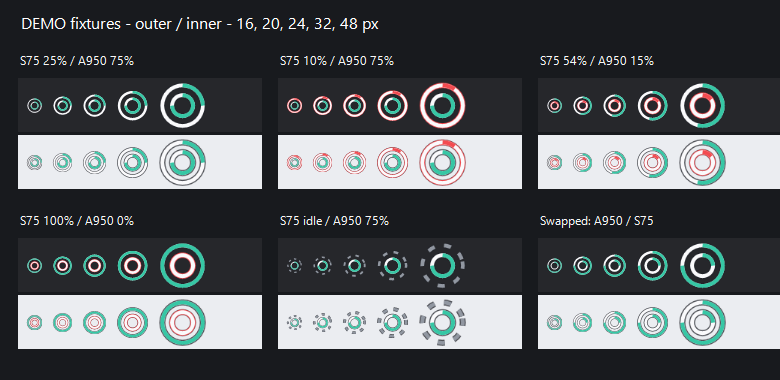
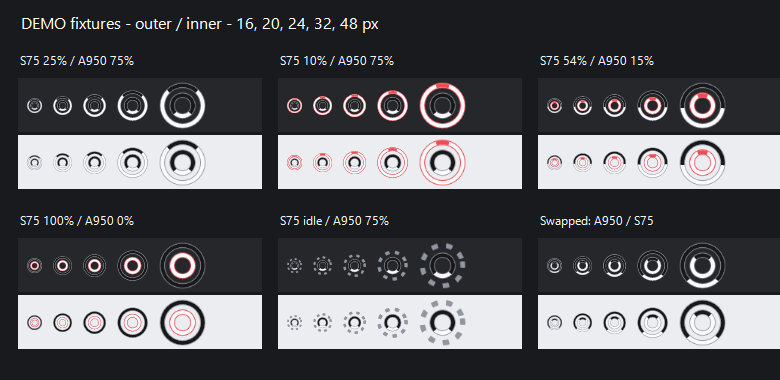
Add tray palettes with monochrome default and bottom-centered consumed arcs

diff --git a/tests/PeripheralBattery.IconTests/Program.cs b/tests/PeripheralBattery.IconTests/Program.cs
@@ -18,6 +18,12 @@ Check(swapped.Outer.Percent == 75 && swapped.Inner.Percent == 25, "swapped outer
 Check(JsonSerializer.Deserialize<AppSettings>("{}", Json.Options)!.KeyboardOuterRing, "old settings preserve default keyboard outer");
 Check(!JsonSerializer.Deserialize<AppSettings>(JsonSerializer.Serialize(settings, Json.Options), Json.Options)!.KeyboardOuterRing,
     "ring order survives settings serialization");
+Check(JsonSerializer.Deserialize<AppSettings>("{}", Json.Options)!.ColorTheme == TrayColorTheme.Monochrome,
+    "old settings default to monochrome");
+var paletteSettings = new AppSettings { ColorTheme = TrayColorTheme.Purple };
+Check(JsonSerializer.Deserialize<AppSettings>(JsonSerializer.Serialize(paletteSettings, Json.Options), Json.Options)!.ColorTheme == TrayColorTheme.Purple,
+    "palette survives settings serialization");
+Check(BatteryRings.From(mouse, keyboard, paletteSettings) != normal, "palette changes invalidate the rendered icon cache");
 Check(BatteryRing.From(Value("A950", 20), 20).Low, "threshold boundary is low");
 Check(!BatteryRing.From(Value("A950", 21), 20).Low, "above threshold is normal");
 Check(BatteryRing.From(Value("A950", 30), 40).Low, "custom threshold is used");
@@ -33,17 +39,35 @@ Color At(Bitmap image, double radius, double degrees)
 }
 using (var image = BatteryTrayRenderer.Draw(normal))
 {
-    Check(Near(At(image, 27, 45), BatteryTrayRenderer.Normal), "outer remaining quarter is colored");
+    Check(Near(At(image, 27, 0), BatteryTrayRenderer.Normal), "outer remaining quarter is centered at top");
     Check(Near(At(image, 27, 135), BatteryTrayRenderer.Consumed), "outer consumed arc is white");
-    Check(Near(At(image, 14, 225), BatteryTrayRenderer.Normal), "inner three-quarter progress is independent");
-    Check(Near(At(image, 14, 315), BatteryTrayRenderer.Consumed), "inner consumed arc is white");
+    Check(Near(At(image, 14, 90), BatteryTrayRenderer.Normal), "inner three-quarter progress is independent");
+    Check(Near(At(image, 14, 180), BatteryTrayRenderer.Consumed), "inner consumed arc is centered at bottom");
     Check(image.GetPixel(32, 32).A == 0 && image.GetPixel(32, 11).A == 0, "center and gap stay transparent");
 }
 using (var image = BatteryTrayRenderer.Draw(new(new(10, true), new(100, false))))
 {
-    Check(Near(At(image, 27, 15), BatteryTrayRenderer.Low), "low outer arc is red");
+    Check(Near(At(image, 27, 0), BatteryTrayRenderer.Low), "low outer arc is red");
     Check(Near(At(image, 27, 180), BatteryTrayRenderer.Consumed), "low consumed arc stays white");
     Check(Near(At(image, 14, 180), BatteryTrayRenderer.Normal), "one low battery does not turn the other ring red");
+}
+foreach (var theme in Enum.GetValues<TrayColorTheme>())
+{
+    using var image = BatteryTrayRenderer.Draw(new(new(50, false), new(25, true), theme));
+    foreach (double angle in new[] { 45d, 315d })
+        Check(Near(At(image, 27, angle), BatteryTrayRenderer.NormalColor(theme)), "normal half stays on both upper quadrants for every palette");
+    foreach (double angle in new[] { 135d, 225d })
+        Check(Near(At(image, 27, angle), BatteryTrayRenderer.Consumed), "white half stays on both lower quadrants for every palette");
+    Check(Near(At(image, 14, 0), BatteryTrayRenderer.Low), "red overrides every selected palette for a low device");
+}
+foreach (int percent in new[] { 10, 25, 50, 75, 90 })
+{
+    using var image = BatteryTrayRenderer.Draw(new(new(percent, false), new(percent, false)));
+    foreach (int radius in new[] { 14, 27 })
+    {
+        Check(Near(At(image, radius, 0), BatteryTrayRenderer.Normal), "remaining arc stays centered at top as the level changes");
+        Check(Near(At(image, radius, 180), BatteryTrayRenderer.Consumed), "consumed arc stays centered at bottom as the level changes");
+    }
 }
 using (var image = BatteryTrayRenderer.Draw(new(new(0, true), new(100, false))))
 {
@@ -107,6 +131,8 @@ var settingsThread = new Thread(() =>
         using var form = new SettingsForm(settings, [], _ => throw new Exception("preview must not save user settings"));
         var order = (ComboBox)form.Controls.Find("RingOrder", true).Single();
         Check(order.SelectedIndex == 1 && order.Items.Count == 2, "settings UI reflects swapped device order");
+        var colors = (ComboBox)form.Controls.Find("TrayColors", true).Single();
+        Check(colors.SelectedIndex == 0 && colors.Items.Count == 6, "settings UI exposes six palettes with monochrome default");
         // Render offscreen. Do not Show(), run the app, or change the installed tray.
         // A never-shown Form omits invisible children in DrawToBitmap. Render its
         // detached layout instead, with the same font and client dimensions.
@@ -116,6 +142,7 @@ var settingsThread = new Thread(() =>
         foreach (Control control in layout.Controls) control.CreateControl();
         layout.PerformLayout();
         Check(layout.ClientRectangle.Contains(order.Bounds), "device order selector fits in the settings layout");
+        Check(layout.ClientRectangle.Contains(colors.Bounds), "palette selector fits in the settings layout");
         Check(layout.ClientRectangle.Contains(((Control)form.AcceptButton!).Bounds), "save button fits in the settings layout");
         using var image = new Bitmap(layout.Width, layout.Height);
         layout.DrawToBitmap(image, layout.ClientRectangle);

diff --git a/src/PeripheralBattery.App/BatteryTrayRenderer.cs b/src/PeripheralBattery.App/BatteryTrayRenderer.cs
@@ -11,22 +11,31 @@ internal readonly record struct BatteryRing(int? Percent, bool Low)
             : new(null, reading.State == BatteryState.LowBatteryWarning);
 }
 
-internal readonly record struct BatteryRings(BatteryRing Outer, BatteryRing Inner)
+internal readonly record struct BatteryRings(BatteryRing Outer, BatteryRing Inner, TrayColorTheme Theme = TrayColorTheme.Monochrome)
 {
     internal static BatteryRings From(Reading mouse, Reading keyboard, AppSettings settings)
     {
         var m = BatteryRing.From(mouse, settings.LowThreshold);
         var k = BatteryRing.From(keyboard, settings.LowThreshold);
-        return settings.KeyboardOuterRing ? new(k, m) : new(m, k);
+        return settings.KeyboardOuterRing ? new(k, m, settings.ColorTheme) : new(m, k, settings.ColorTheme);
     }
 }
 
 internal static class BatteryTrayRenderer
 {
-    internal static readonly Color Normal = Color.FromArgb(54, 199, 165);
+    internal static readonly Color Normal = Color.FromArgb(24, 24, 27);
     internal static readonly Color Low = Color.FromArgb(243, 75, 80);
     internal static readonly Color Consumed = Color.FromArgb(250, 250, 252);
     internal static readonly Color Unknown = Color.FromArgb(145, 151, 161);
+    internal static Color NormalColor(TrayColorTheme theme) => theme switch
+    {
+        TrayColorTheme.Teal => Color.FromArgb(54, 199, 165),
+        TrayColorTheme.Blue => Color.FromArgb(67, 144, 246),
+        TrayColorTheme.Green => Color.FromArgb(70, 180, 103),
+        TrayColorTheme.Purple => Color.FromArgb(167, 119, 238),
+        TrayColorTheme.Orange => Color.FromArgb(237, 152, 53),
+        _ => Normal
+    };
 
     // Transparent, supersampled by Shell at the actual taskbar icon size.
     internal static Bitmap Draw(BatteryRings rings, int size = 64)
@@ -35,19 +44,21 @@ internal static class BatteryTrayRenderer
         using var g = Graphics.FromImage(bitmap);
         g.SmoothingMode = SmoothingMode.AntiAlias;
         g.ScaleTransform(size / 64f, size / 64f);
-        DrawRing(g, new RectangleF(5, 5, 54, 54), rings.Outer);
-        DrawRing(g, new RectangleF(18, 18, 28, 28), rings.Inner);
+        var color = NormalColor(rings.Theme);
+        DrawRing(g, new RectangleF(5, 5, 54, 54), rings.Outer, color);
+        DrawRing(g, new RectangleF(18, 18, 28, 28), rings.Inner, color);
         return bitmap;
     }
 
-    private static void DrawRing(Graphics g, RectangleF bounds, BatteryRing ring)
+    private static void DrawRing(Graphics g, RectangleF bounds, BatteryRing ring, Color normal)
     {
-        using var edge = new Pen(Color.FromArgb(190, 32, 35, 40), 8);
+        // A neutral hairline keeps the black remaining arc visible on dark taskbars.
+        using var edge = new Pen(Color.FromArgb(210, 127, 133, 143), 7);
         if (ring.Percent is not int percent)
         {
             // Unknown/idle never looks like a full or empty battery.
             edge.DashPattern = [1.2f, 1.6f];
-            using var unknown = new Pen(ring.Low ? Low : Unknown, 5) { DashPattern = [1.92f, 2.56f] };
+            using var unknown = new Pen(ring.Low ? Low : Unknown, 5) { DashPattern = [1.68f, 2.24f] };
             g.DrawEllipse(edge, bounds); g.DrawEllipse(unknown, bounds);
             return;
         }
@@ -57,9 +68,15 @@ internal static class BatteryTrayRenderer
         using var consumed = new Pen(Consumed, 5);
         g.DrawEllipse(consumed, bounds);
         if (percent == 0) return;
-        using var remaining = new Pen(ring.Low ? Low : Normal, 5);
+        using var remaining = new Pen(ring.Low ? Low : normal, 5);
         if (percent == 100) g.DrawEllipse(remaining, bounds);
-        else g.DrawArc(remaining, bounds, -90, percent * 3.6f);
+        else
+        {
+            float sweep = percent * 3.6f;
+            // Remaining arc is symmetric around 12 o'clock, so consumed white
+            // is always centered at 6 o'clock, independent of battery level.
+            g.DrawArc(remaining, bounds, -90 - sweep / 2, sweep);
+        }
     }
 
     internal static Icon Create(BatteryRings rings)

diff --git a/src/PeripheralBattery.App/SettingsForm.cs b/src/PeripheralBattery.App/SettingsForm.cs
@@ -8,8 +8,8 @@ internal sealed class SettingsForm : Form
     internal SettingsForm(AppSettings current, List<HidDevice> devices, Action<AppSettings> saved)
     {
         Text = "无线外设电量 · 设置"; Font = new Font("Microsoft YaHei UI", 9f); AutoScaleMode = AutoScaleMode.Dpi; AutoScaleDimensions = new SizeF(96, 96);
-        ClientSize = new Size(560, 409); FormBorderStyle = FormBorderStyle.FixedDialog; MaximizeBox = false; StartPosition = FormStartPosition.CenterScreen;
-        var table = new TableLayoutPanel { Dock = DockStyle.Fill, Padding = new Padding(20), ColumnCount = 2, RowCount = 9 };
+        ClientSize = new Size(560, 448); FormBorderStyle = FormBorderStyle.FixedDialog; MaximizeBox = false; StartPosition = FormStartPosition.CenterScreen;
+        var table = new TableLayoutPanel { Dock = DockStyle.Fill, Padding = new Padding(20), ColumnCount = 2, RowCount = 10 };
         table.ColumnStyles.Add(new ColumnStyle(SizeType.Absolute, 130)); table.ColumnStyles.Add(new ColumnStyle(SizeType.Percent, 100));
         var poll = new NumericUpDown { Minimum = 15, Maximum = 600, Value = current.PollSeconds, Increment = 15, Dock = DockStyle.Left, Width = 100 };
         var low = new NumericUpDown { Minimum = 1, Maximum = 50, Value = current.LowThreshold, Dock = DockStyle.Left, Width = 100 };
@@ -18,6 +18,9 @@ internal sealed class SettingsForm : Form
         var ringOrder = new ComboBox { Name = "RingOrder", DropDownStyle = ComboBoxStyle.DropDownList, Dock = DockStyle.Fill };
         ringOrder.Items.AddRange(["外环 S75 · 内环 A950", "外环 A950 · 内环 S75"]);
         ringOrder.SelectedIndex = current.KeyboardOuterRing ? 0 : 1;
+        var colors = new ComboBox { Name = "TrayColors", DropDownStyle = ComboBoxStyle.DropDownList, Dock = DockStyle.Fill };
+        colors.Items.AddRange(["黑白（默认）", "青绿 / 白", "蓝 / 白", "绿 / 白", "紫 / 白", "橙 / 白"]);
+        colors.SelectedIndex = Enum.IsDefined(current.ColorTheme) ? (int)current.ColorTheme : 0;
         ComboBox Receivers(IEnumerable<HidDevice> list, string? selected)
         {
             var box = new ComboBox { DropDownStyle = ComboBoxStyle.DropDownList, Dock = DockStyle.Fill };
@@ -35,14 +38,16 @@ internal sealed class SettingsForm : Form
         }
         Row(0, "间隔 / 秒", poll); Row(1, "低电量 / %", low); Row(2, "鼠标接收器", mouse); Row(3, "键盘接收器", keyboard);
         Row(4, "内外环设备", ringOrder);
-        table.Controls.Add(startup, 1, 5); table.Controls.Add(hover, 1, 6);
+        Row(5, "托盘配色", colors);
+        table.Controls.Add(startup, 1, 6); table.Controls.Add(hover, 1, 7);
         var hint = new Label { Text = "键盘闲置 30 秒后暂停查询，按键后恢复。\n“立即刷新”会主动查询，可能唤醒设备。", AutoSize = true, MaximumSize = new Size(510, 0), ForeColor = Color.DimGray };
-        table.Controls.Add(hint, 0, 7); table.SetColumnSpan(hint, 2);
+        table.Controls.Add(hint, 0, 8); table.SetColumnSpan(hint, 2);
         var save = new Button { Text = "保存", AutoSize = true, Anchor = AnchorStyles.Right };
-        table.Controls.Add(save, 1, 8); Controls.Add(table); AcceptButton = save;
+        table.Controls.Add(save, 1, 9); Controls.Add(table); AcceptButton = save;
         save.Click += (_, _) =>
         {
             var updated = new AppSettings { PollSeconds = (int)poll.Value, LowThreshold = (int)low.Value, HoverPanel = hover.Checked, KeyboardOuterRing = ringOrder.SelectedIndex == 0,
+                ColorTheme = (TrayColorTheme)colors.SelectedIndex,
                 MouseReceiver = ((ReceiverChoice)mouse.SelectedItem!).Key, KeyboardReceiver = ((ReceiverChoice)keyboard.SelectedItem!).Key };
             Storage.AutoStart = startup.Checked; Storage.Save(updated); saved(updated); Close();
         };

diff --git a/src/PeripheralBattery.Core/Models.cs b/src/PeripheralBattery.Core/Models.cs
@@ -34,12 +34,14 @@ public sealed record HidDevice(string Path, string InstanceId, string ReceiverKe
     public override string ToString() => $"{Product} · {Id} · {UsagePage:X4}:{Usage:X4}";
 }
 public sealed record Snapshot(DateTimeOffset CapturedAt, List<HidDevice> Devices, Reading Mouse, Reading Keyboard);
+public enum TrayColorTheme { Monochrome, Teal, Blue, Green, Purple, Orange }
 public sealed class AppSettings
 {
     public int PollSeconds { get; set; } = 60;
     public int LowThreshold { get; set; } = 20;
     public bool HoverPanel { get; set; } = true;
     public bool KeyboardOuterRing { get; set; } = true;
+    public TrayColorTheme ColorTheme { get; set; } = TrayColorTheme.Monochrome;
     public string? MouseReceiver { get; set; }
     public string? KeyboardReceiver { get; set; }
 }

diff --git a/src/PeripheralBattery.App/Storage.cs b/src/PeripheralBattery.App/Storage.cs
@@ -16,7 +16,9 @@ internal static class Storage
         try
         {
             var s = File.Exists(SettingsPath) ? JsonSerializer.Deserialize<AppSettings>(File.ReadAllText(SettingsPath), Json.Options) ?? new() : new();
-            s.PollSeconds = Math.Clamp(s.PollSeconds, 15, 600); s.LowThreshold = Math.Clamp(s.LowThreshold, 1, 50); return s;
+            s.PollSeconds = Math.Clamp(s.PollSeconds, 15, 600); s.LowThreshold = Math.Clamp(s.LowThreshold, 1, 50);
+            if (!Enum.IsDefined(s.ColorTheme)) s.ColorTheme = TrayColorTheme.Monochrome;
+            return s;
         }
         catch (Exception e) { Log("设置读取失败，使用默认值: " + e.Message); return new(); }
     }

diff --git a/src/PeripheralBattery.App/TrayContext.cs b/src/PeripheralBattery.App/TrayContext.cs
@@ -28,7 +28,7 @@ internal sealed class TrayContext : ApplicationContext
 
     internal TrayContext(bool show, bool showDiagnostics, bool showSettings, bool startMonitoring = true)
     {
-        Storage.Log("启动 v1.3.0 · 双环电量图标");
+        Storage.Log("启动 v1.4.0 · 黑白默认配色与底部消耗弧");
         popup.LowThreshold = settings.LowThreshold;
         renderedRings = BatteryRings.From(current.Mouse, current.Keyboard, settings);
         tray = new TrayIcon(BatteryTrayRenderer.Create(renderedRings)) { Text = "A950 · S75", ContextMenu = menu, ShowNativeTip = !settings.HoverPanel };

diff --git a/README.md b/README.md
@@ -6,7 +6,7 @@
 
 > 图示为实机采样的 UI 渲染；设备休眠或断连时不显示旧百分比。首次硬件验证：A950 50%，S75 57%，后续 S75 56%。这些是测试时的读数，不是固定展示数据。
 
-推荐下载 [Windows 安装程序](https://github.com/wgen95/peripheral-battery-tray/releases/download/v1.3.0/PeripheralBattery-1.3.0-Setup-x64.exe)，双击安装后即可从开始菜单打开。也可下载 [免安装 ZIP](https://github.com/wgen95/peripheral-battery-tray/releases/download/v1.3.0/PeripheralBattery-1.3.0-win-x64.zip)。两种版本都自带 .NET；正常运行无需联网、管理员权限或替换设备驱动，默认不开机自启。
+推荐下载 [Windows 安装程序](https://github.com/wgen95/peripheral-battery-tray/releases/download/v1.4.0/PeripheralBattery-1.4.0-Setup-x64.exe)，双击安装后即可从开始菜单打开。安装程序自带 .NET；正常运行无需联网、管理员权限或替换设备驱动，默认不开机自启。
 
 **省电说明：**旧版每分钟主动查询 S75，虽然没有修改键盘设置，但可能干扰固件闲置倒计时。v1.2.0 改为闲置时不查询键盘。Windows 键盘活动通知只保留活动时间，不读取、保存或上传按键内容；无键盘活动通知时保持暂停查询。
 
@@ -20,7 +20,7 @@
 - 鼠标默认每 60 秒查询；可设 15–600 秒。S75 仅在检测到键盘活动后的 30 秒窗口内查询，闲置后停止主动通信，显示“待使用”，不把它误称为硬件休眠，也不展示旧百分比。启动、USB 重插及系统恢复不会主动唤醒闲置键盘。
 - “立即刷新”属于主动查询，可能唤醒设备；悬停 / 点击查看面板不会发出额外查询。
 - 低于阈值时数字变色。关闭浮层或诊断窗口继续后台运行。
-- 双环托盘默认外环 S75、内环 A950，在设置的“内外环设备”中可对调，保存后立即生效。12 点起顺时针填充：青绿色代表剩余电量，白色代表已消耗；达到设置中的低电量阈值时，对应环变红。0% 以白色空环和细红边表示。
+- 双环托盘默认外环 S75、内环 A950，在设置的“内外环设备”中可对调，保存后立即生效。默认黑白配：黑色代表剩余电量，白色代表已消耗；白色消耗弧以 6 点钟方向为中心，两侧对称变化。设置中的“托盘配色”可切换黑白、青绿 / 白、蓝 / 白、绿 / 白、紫 / 白、橙 / 白，保存后立即生效。达到设置中的低电量阈值时，对应环变红。0% 以白色空环和细红边表示。
 - 没有有效电量（含闲置、断连、读取失败）时，对应环显示灰色虚线，不沿用旧读数。
 - 图标可能被 Windows 收纳在 `^` 中，可通过任务栏设置选择常驻显示。拖动期间不会弹出浮层；固定 GUID 保持不变。
 
@@ -43,14 +43,14 @@
 需要 Windows 10/11 x64、.NET 8 SDK（8.0.400 或更新的 8.0 SDK）。
 
 ```powershell
-./build.ps1
+./build.ps1 -Installer
 # SDK 不在 PATH 时：
-./build.ps1 -Dotnet 'C:/path/to/dotnet.exe'
+./build.ps1 -Installer -Dotnet 'C:/path/to/dotnet.exe'
 # 同时生成安装程序（需 Inno Setup 6.3+）
 ./build.ps1 -Installer -Iscc 'C:/path/to/ISCC.exe'
 
-# 仅运行
-dotnet run --project src/PeripheralBattery.App
+# 已有安装版的本机升级验证（不启动应用，不运行便携版）
+./tools/test-installed-upgrade.ps1
 # 协议与状态测试（无需硬件）
 dotnet run --project tests/PeripheralBattery.Tests
 # 真实硬件诊断（本机信息写入指定文件）
@@ -60,7 +60,7 @@ dotnet run --project tests/PeripheralBattery.Tests -- --hardware evidence/probe.
 dotnet run --project tests/PeripheralBattery.UiTests -c Release -- evidence/panel.png
 ```
 
-自包含单文件发布因附带运行时而比源码 / 依赖框架版本大，首次启动也需要解包原生库；实际大小见 Release。保留压缩包内文档及许可证。
+自包含单文件发布因附带运行时而比源码 / 依赖框架版本大，首次启动也需要解包原生库；实际大小见 Release。发行包仅提供安装程序和 SHA256SUMS.txt。本机应用验证统一覆盖安装，不运行发布暂存目录中的可执行文件。
 
 CLI（WinExe 不输出控制台，诊断请读取 JSON 或日志）：
 

diff --git a/installer/release-notes.md b/installer/release-notes.md
@@ -1,9 +1,9 @@
-v1.3.0：双环电量托盘。推荐下载 `PeripheralBattery-1.3.0-Setup-x64.exe`，由用户自行安装测试。
+v1.4.0：可切换配色，默认黑白，白色消耗弧居下。
 
-- 默认外环为 S75 键盘、内环为 A950 鼠标；设置新增“内外环设备”，可以对调并保存，保存后立即生效。
-- 从 12 点起顺时针显示剩余电量：正常为青绿色、已消耗部分为白色。达到用户设置的低电量阈值时，只将对应环变红；0% 保留细红边作为低电量提示。
-- 无有效读数时使用灰色虚线环，不把闲置、断连或读取失败伪装为 0% / 100%，不沿用旧百分比。
-- 本次功能变更限于托盘显示及其设置；原有浮层、HID 查询、键盘闲置保护、安装 / 卸载流程不变。更新图标沿用同一个 HWND / GUID。
-- 新增不启动应用、不注册托盘、不访问硬件的绘制测试，覆盖映射、阈值、状态、配置兼容、不同尺寸及图标资源释放；预览图使用明确标注的演示数据。
+- 设置新增“托盘配色”：黑白（默认）、青绿 / 白、蓝 / 白、绿 / 白、紫 / 白、橙 / 白，保存后立即生效并记住选择。旧配置升级后默认使用黑白。
+- 剩余电量弧以正上方为中心，白色已消耗部分以正下方（6 点钟）为中心对称变化，不再偏到右侧。
+- 低电量仍按用户的阈值将对应环变红；无有效电量时保持灰色虚线。内外环设备切换保留。
+- 硬件查询、键盘闲置保护和电量浮层不变。只更新图标，沿用原来的通知区域 GUID。
+- 后续发行仅提供安装程序及校验文件；本机应用验证通过覆盖安装完成，不再直接运行便携副本。
 
-安装程序自带 .NET，不需要管理员权限。安装包尚未代码签名。真实桌面上的图标观感和设备状态切换，由用户安装后测试。
+安装、覆盖升级及干净卸载由 CI 在独立环境验证。安装程序自带 .NET，无需管理员权限，尚未代码签名。

diff --git a/docs/05-installation.md b/docs/05-installation.md
@@ -1,6 +1,6 @@
 # 安装与卸载
 
-从 [v1.3.0 Release](https://github.com/wgen95/peripheral-battery-tray/releases/tag/v1.3.0) 下载 `PeripheralBattery-1.3.0-Setup-x64.exe`，双击按中文向导安装。无需单独安装 .NET，也不要求管理员权限。
+从 [v1.4.0 Release](https://github.com/wgen95/peripheral-battery-tray/releases/tag/v1.4.0) 下载 `PeripheralBattery-1.4.0-Setup-x64.exe`，双击按中文向导安装。无需单独安装 .NET，也不要求管理员权限。
 
 - 默认安装到当前用户的 `%LOCALAPPDATA%/Programs/PeripheralBattery`。
 - 自动添加“无线外设电量”开始菜单入口，可以自行勾选桌面快捷方式。
@@ -19,6 +19,6 @@
 
 只清理这些应用专用目录，不删除整个临时目录、.NET 缓存根目录或其他软件的数据。用户自行保存到其他位置的诊断导出、下载的安装包及源码不会被删除。安装包默认不生成持久安装日志，开发测试通过显式 `/LOG` 生成的日志留在项目的 `evidence/` 中。
 
-安装包为本项目自行构建，尚未代码签名。Release 同时提供 SHA256SUMS.txt 和免安装 ZIP。
+安装包为本项目自行构建，尚未代码签名。Release 提供安装程序和 SHA256SUMS.txt，不再生成便携 ZIP。应用验证统一通过安装程序覆盖升级，保留原目录和用户设置。
 
 开发者构建：安装 [Inno Setup](https://jrsoftware.org/isdl.php)，然后运行 `./build.ps1 -Installer -Iscc 'ISCC.exe 的完整路径'`。安装脚本位于 `installer/PeripheralBattery.iss`，应用安装与卸载都采用当前用户模式；不会修改机器级环境变量或系统驱动。

diff --git a/docs/03-test-report.md b/docs/03-test-report.md
@@ -81,3 +81,11 @@
 - 绘制检查包含 16 / 20 / 24 / 32 像素与放大预览，在深浅背景检查两环分隔；预览明确标注 DEMO，不用于宣称硬件实际电量。
 - 设置界面在屏幕外绘制检查，没有 Show()，没有保存用户设置；对调选项正确回显。原有 51 条协议 / 省电策略断言继续执行。
 - 尚未对本版本进行真实托盘悬停、拖动及硬件状态切换验收，保留给用户自行安装测试。CI 继续在独立环境验证安装、升级和干净卸载。
+
+## v1.4.0 配色和底部消耗弧
+
+- 148 项图标 / 设置断言通过，包含六种配色、旧配置默认黑白、配色持久化、配色变化使图标重新绘制、低电量覆盖所有配色，以及多个电量下白色部分始终居下的像素检查。51 项协议 / 省电策略断言继续通过。
+- 本机通过实际安装程序从注册的 v1.2.0 覆盖升级至 v1.4.0，保持原安装目录、配置文件内容及自启动偏好；没有从便携目录直接启动应用，也没有在测试后替用户打开应用。
+- 设置新增配色选项，内外环设备切换保留。硬件协议、读取周期及键盘闲置保护不变。
+- 此后安装版构建不生成便携 ZIP，CI 发布只包含安装程序和校验文件。覆盖升级验证脚本为 tools/test-installed-upgrade.ps1。
+- 用户要求的本机旧包和构建残留清理尝试被执行工具的自动审批拒绝，包括缩小到明确旧包路径的非递归删除；未执行这些删除，也未以其他方法绕过拦截。
